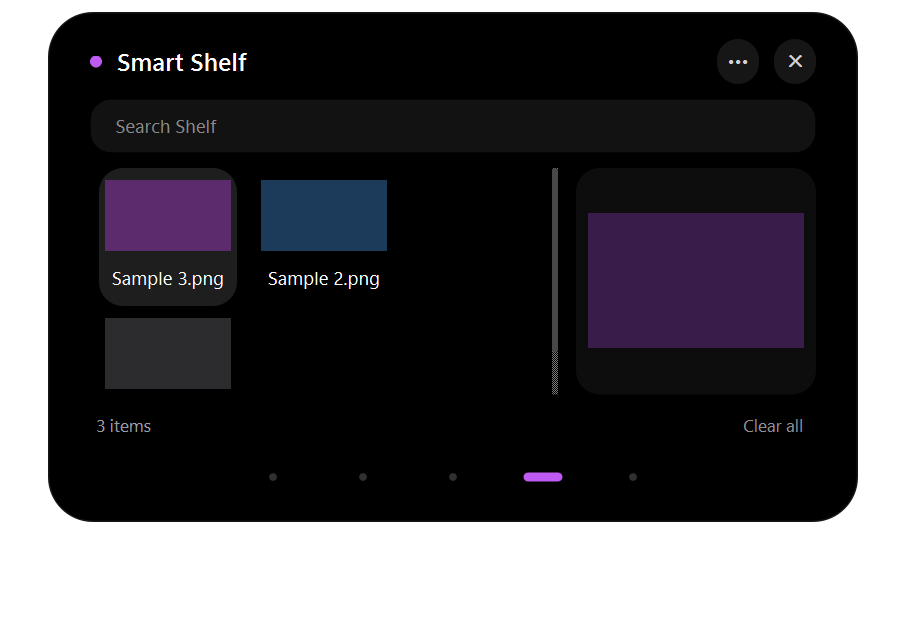
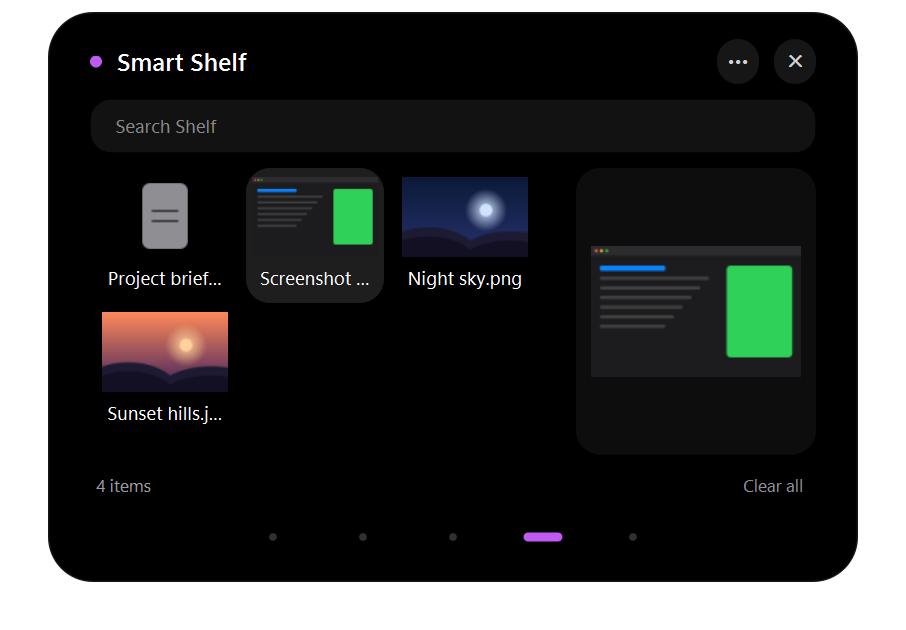
Refresh Smart Shelf showcase and polish thumbnails
- README Shelf capture now uses generated photo, screenshot and document
  fixtures instead of flat colour blocks.
- Selected thumbnails are no longer tinted; three-column grid, taller
  Shelf page and a preview that fits its card.

diff --git a/tools/check_appearance.py b/tools/check_appearance.py
@@ -20,6 +20,32 @@ from panel import ControlPanel
 from storage import Store
 
 
+def shelf_samples(directory):
+    """Generated, non-personal Shelf fixtures: two 'photos', a window screenshot and a document."""
+    from PySide6.QtGui import QPainter,QLinearGradient,QRadialGradient
+    from PySide6.QtCore import QRectF,QPointF
+    paths=[]
+    def photo(name,top,bottom,sun):
+        image=QImage(960,600,QImage.Format_RGB32);painter=QPainter(image);painter.setRenderHint(QPainter.Antialiasing)
+        sky=QLinearGradient(0,0,0,600);sky.setColorAt(0,QColor(top));sky.setColorAt(1,QColor(bottom));painter.fillRect(image.rect(),sky)
+        glow=QRadialGradient(QPointF(640,250),160);glow.setColorAt(0,QColor(sun));glow.setColorAt(1,QColor(0,0,0,0));painter.setPen(Qt.NoPen);painter.setBrush(glow);painter.drawEllipse(QPointF(640,250),160,160)
+        painter.setBrush(QColor(sun));painter.drawEllipse(QPointF(640,250),48,48)
+        for offset,color in ((380,'#1d1b33'),(450,'#121022')):
+            painter.setBrush(QColor(color));painter.drawEllipse(QRectF(-200,offset,800,500));painter.drawEllipse(QRectF(380,offset+30,900,500))
+        painter.end();path=directory/name;image.save(str(path));paths.append(path)
+    photo('Sunset hills.jpg','#ff8a5b','#3b1f5c','#ffd29a')
+    photo('Night sky.png','#0b1a3a','#27326b','#cfe3ff')
+    image=QImage(960,600,QImage.Format_RGB32);image.fill(QColor('#1c1c1e'));painter=QPainter(image);painter.setRenderHint(QPainter.Antialiasing)
+    painter.fillRect(QRectF(0,0,960,44),QColor('#2c2c2e'))
+    for x,color in ((24,'#ff5f57'),(48,'#febc2e'),(72,'#28c840')):painter.setPen(Qt.NoPen);painter.setBrush(QColor(color));painter.drawEllipse(QPointF(x,22),7,7)
+    painter.setBrush(QColor('#0a84ff'));painter.drawRoundedRect(QRectF(40,90,300,24),8,8)
+    for row in range(6):painter.setBrush(QColor(255,255,255,40));painter.drawRoundedRect(QRectF(40,140+row*44,500-row*40,16),8,8)
+    painter.setBrush(QColor('#30d158'));painter.drawRoundedRect(QRectF(620,90,300,420),18,18)
+    painter.end();path=directory/'Screenshot 2026-10-27.png';image.save(str(path));paths.append(path)
+    document=directory/'Project brief.pdf';document.write_bytes(b'%PDF-1.4\n% generated fixture\n');paths.append(document)
+    return paths
+
+
 def main():
     app=QApplication([]);out=ROOT/'artifacts/productivity'
     with tempfile.TemporaryDirectory() as directory,patch.dict(os.environ,{'LOCALAPPDATA':directory}):
@@ -27,8 +53,7 @@ def main():
         media=SimpleNamespace(snapshot={},set_active=lambda value:None)
         store=Store(Path(directory)/'test.sqlite3')
         for body in ('Send weekly report','Review island motion','Buy coffee beans'):store.save_note(body=body)
-        for index,color in enumerate(('#2c2c2e','#1c3b5a','#3a1c4a')):
-            sample=QImage(640,360,QImage.Format_RGB32);sample.fill(QColor(color));path=Path(directory)/f'Sample {index+1}.png';sample.save(str(path));store.add_file(str(path))
+        for path in shelf_samples(Path(directory)):store.add_file(str(path))
         panel=ControlPanel(media=media,store=store,parent=window)
         try:
             window.attach_deck(panel);QTest.qWait(80)
@@ -50,7 +75,7 @@ def main():
             window.grab().save(str(out/'music-album-top-edge.png'))
             panel.open_page('Notes');QTest.qWait(80);window.grab().save(str(out/'notes-black.png'))
             panel.open_page('Clipboard');QTest.qWait(80);window.grab().save(str(out/'v4-clipboard.png'))
-            panel.open_page('Shelf');QTest.qWait(80);panel._built['Shelf'].files.setCurrentRow(0);QTest.qWait(450);window.grab().save(str(out/'v4-shelf.png'))
+            panel.open_page('Shelf');QTest.qWait(80);panel._built['Shelf'].files.setCurrentRow(1);QTest.qWait(450);window.grab().save(str(out/'v4-shelf.png'))
             window.collapse_deck();QTest.qWait(80);window.grab().save(str(out/'v4-compact.png'))
             clock=Island(interactive=True,reduced_motion=True);clock.setAttribute(Qt.WA_DontShowOnScreen,True);clock._timer.stop();clock.show()
             clock.open_island();QTest.qWait(60);clock.grab().save(str(out/'v4-clock.png'));clock.close()

diff --git a/kai/product_pages.py b/kai/product_pages.py
@@ -314,13 +314,18 @@ class FileList(QListWidget):
         event.acceptProposedAction();self.changed.emit()
 
 
+def plain_icon(pixmap):
+    """Same pixmap for normal and selected states, so thumbnails are never tinted."""
+    icon=QIcon(pixmap);icon.addPixmap(pixmap,QIcon.Selected);return icon
+
+
 def file_icon(folder=False,image=False):
     pixmap=QPixmap(64,64);pixmap.fill(Qt.transparent);p=QPainter(pixmap);p.setRenderHint(QPainter.Antialiasing)
     p.setPen(Qt.NoPen);p.setBrush(QColor('#ff9f0a' if folder else '#bf5af2' if image else '#8e8e93'))
     if folder:p.drawRoundedRect(6,14,24,12,4,4);p.drawRoundedRect(6,22,52,32,5,5)
     else:
         p.drawRoundedRect(14,6,36,52,6,6);p.setPen(QColor('#000000'));p.drawLine(22,28,42,28);p.drawLine(22,36,42,36)
-    p.end();return QIcon(pixmap)
+    p.end();return plain_icon(pixmap)
 
 
 class ShelfPage(QWidget):
@@ -332,7 +337,8 @@ class ShelfPage(QWidget):
         layout.setSpacing(10)
         self.search=QLineEdit();self.search.setPlaceholderText('Search Shelf');self.search.setClearButtonEnabled(True);layout.addWidget(self.search)
         self.filter=QComboBox();self.filter.addItems(['All','Images','Documents','Folder','Pinned']);self.filter.hide()  # driven from the ••• menu
-        self.files=FileList(store);self.files.setViewMode(QListWidget.IconMode);self.files.setIconSize(QSize(84,58));self.files.setGridSize(QSize(104,92));self.files.setSpacing(4)
+        self.files=FileList(store);self.files.setViewMode(QListWidget.IconMode);self.files.setIconSize(QSize(84,54));self.files.setGridSize(QSize(100,90));self.files.setSpacing(2)
+        palette=self.files.palette();palette.setColor(palette.ColorRole.Highlight,QColor(255,255,255,40));self.files.setPalette(palette)  # no tinted thumbnails
         self.files.setContextMenuPolicy(Qt.CustomContextMenu);self.files.customContextMenuRequested.connect(self.context_menu);self.files.setToolTip('Double-click to open · drag out to share · right-click for more')
         self.files.setMovement(QListWidget.Static);self.files.setResizeMode(QListWidget.Adjust);self.files.setSelectionMode(QAbstractItemView.ExtendedSelection);self.files.setDragEnabled(True)
         row=QHBoxLayout();row.setSpacing(12);row.addWidget(self.files,1)
@@ -372,7 +378,7 @@ class ShelfPage(QWidget):
         if not item:return
         path=Path(item.data(Qt.UserRole));self.preview.setToolTip(str(path))
         if path.suffix.lower() in ('.png','.jpg','.jpeg','.webp','.bmp'):
-            reader=QImageReader(str(path));reader.setAllocationLimit(24);reader.setScaledSize(reader.size().scaled(QSize(160,125),Qt.KeepAspectRatio));image=reader.read()
+            reader=QImageReader(str(path));reader.setAllocationLimit(24);reader.setScaledSize(reader.size().scaled(QSize(140,120),Qt.KeepAspectRatio));image=reader.read()
             if not image.isNull():self.preview.setPixmap(QPixmap.fromImage(image));return
         try:size=f'{path.stat().st_size/1024:.1f} KiB' if path.is_file() else 'Folder'
         except OSError:size='File unavailable'
@@ -383,7 +389,7 @@ class ShelfPage(QWidget):
         if not self.queue:self.schedule_thumbnails();return
         path,item=self.queue.pop(0);reader=QImageReader(path);reader.setScaledSize(reader.size().scaled(QSize(96,96),Qt.KeepAspectRatio));reader.setAllocationLimit(24)
         image=reader.read()
-        if not image.isNull():item.setIcon(QIcon(QPixmap.fromImage(image)))
+        if not image.isNull():item.setIcon(plain_icon(QPixmap.fromImage(image)))
         if self.queue:self.thumbnail_timer.start(30)
     def menu_actions(self):
         filters=[(label,lambda checked=False,i=i:self.filter.setCurrentIndex(i)) for i,label in enumerate(('Show all','Images','Documents','Folders','Pinned'))]

diff --git a/kai/panel.py b/kai/panel.py
@@ -210,7 +210,7 @@ class ControlPanel(QWidget):
         self.navigation.select(name,animate=not reduced)
 
     def preferred_height(self):
-        return {'Media':300,'Shelf':340,'Clipboard':340,'Notes':340,'Transform':330,'Atur':300}.get(self.current_page(),320)
+        return {'Media':300,'Shelf':380,'Clipboard':340,'Notes':340,'Transform':330,'Atur':300}.get(self.current_page(),320)
 
     def _sync_media_service(self,*_):
         if hasattr(self.media,'set_active'):self.media.set_active(not self._closed and self.current_page()=='Media')
